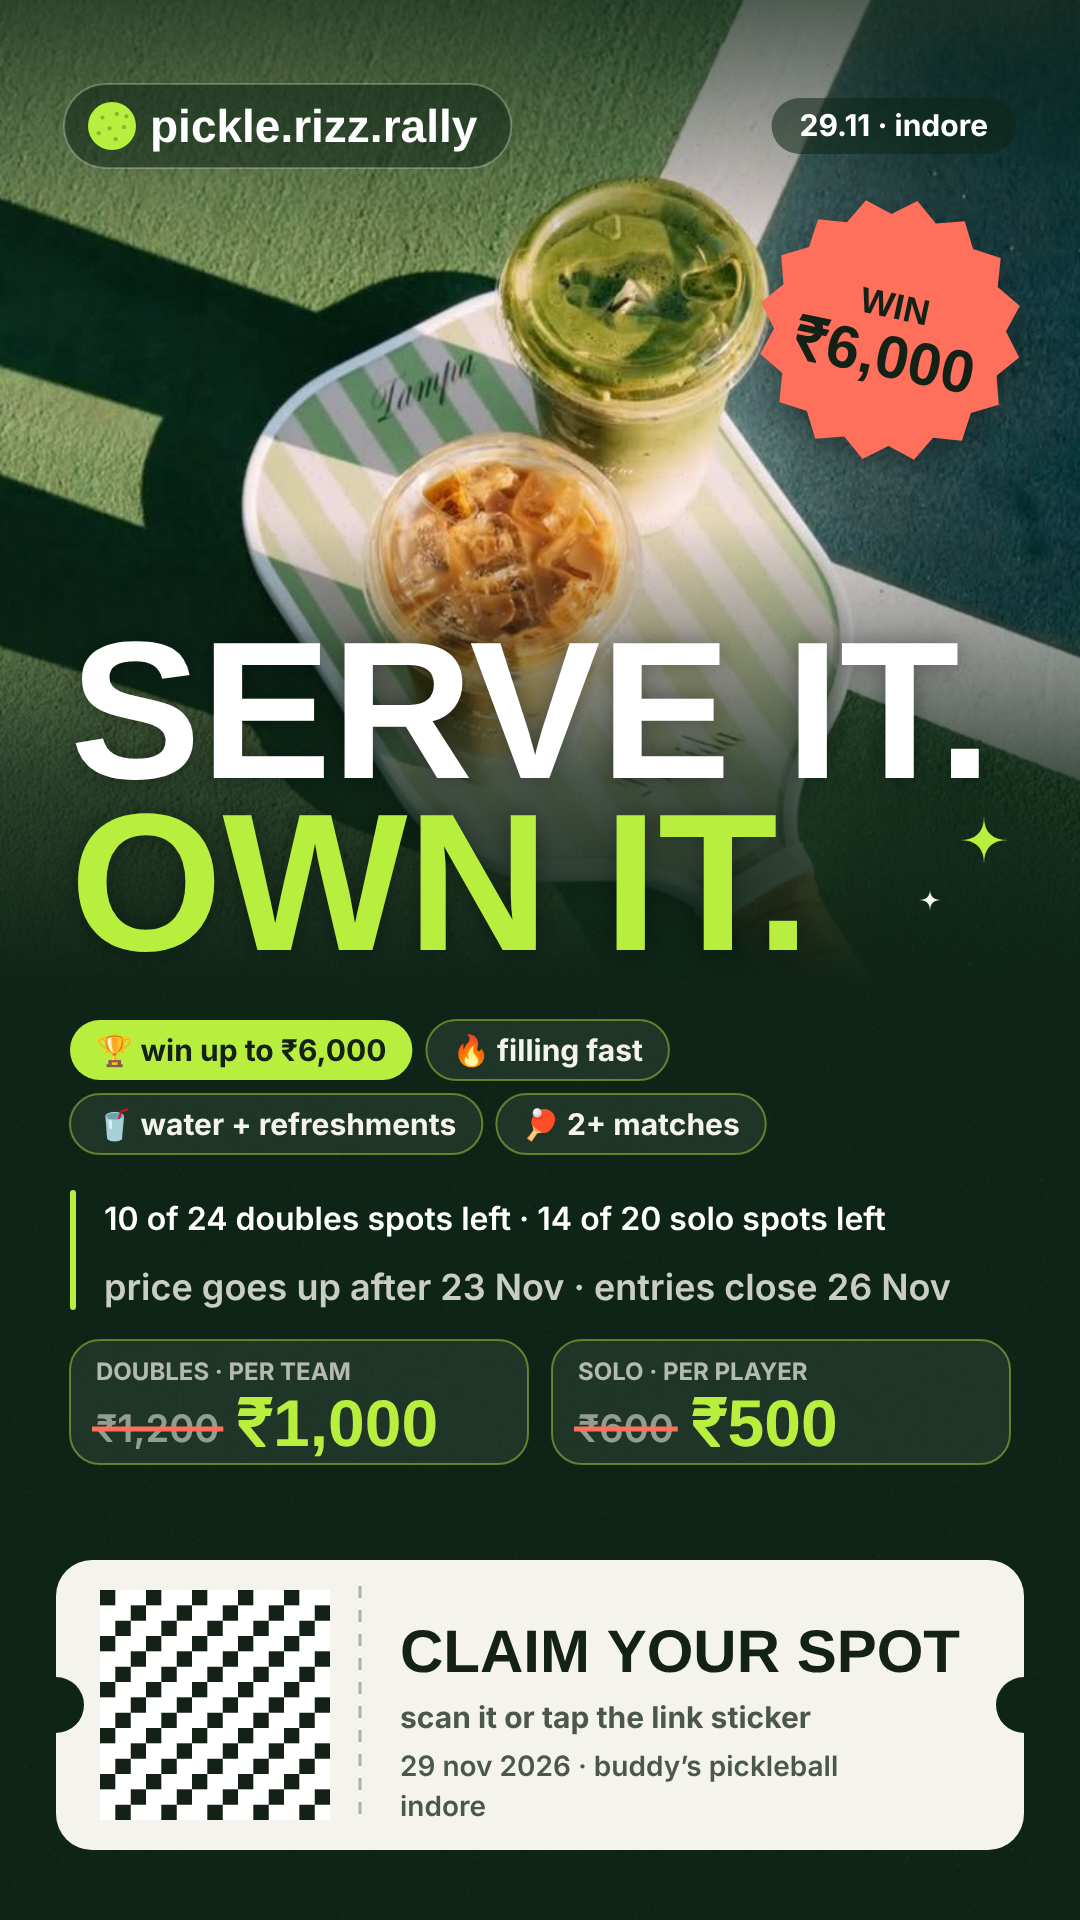
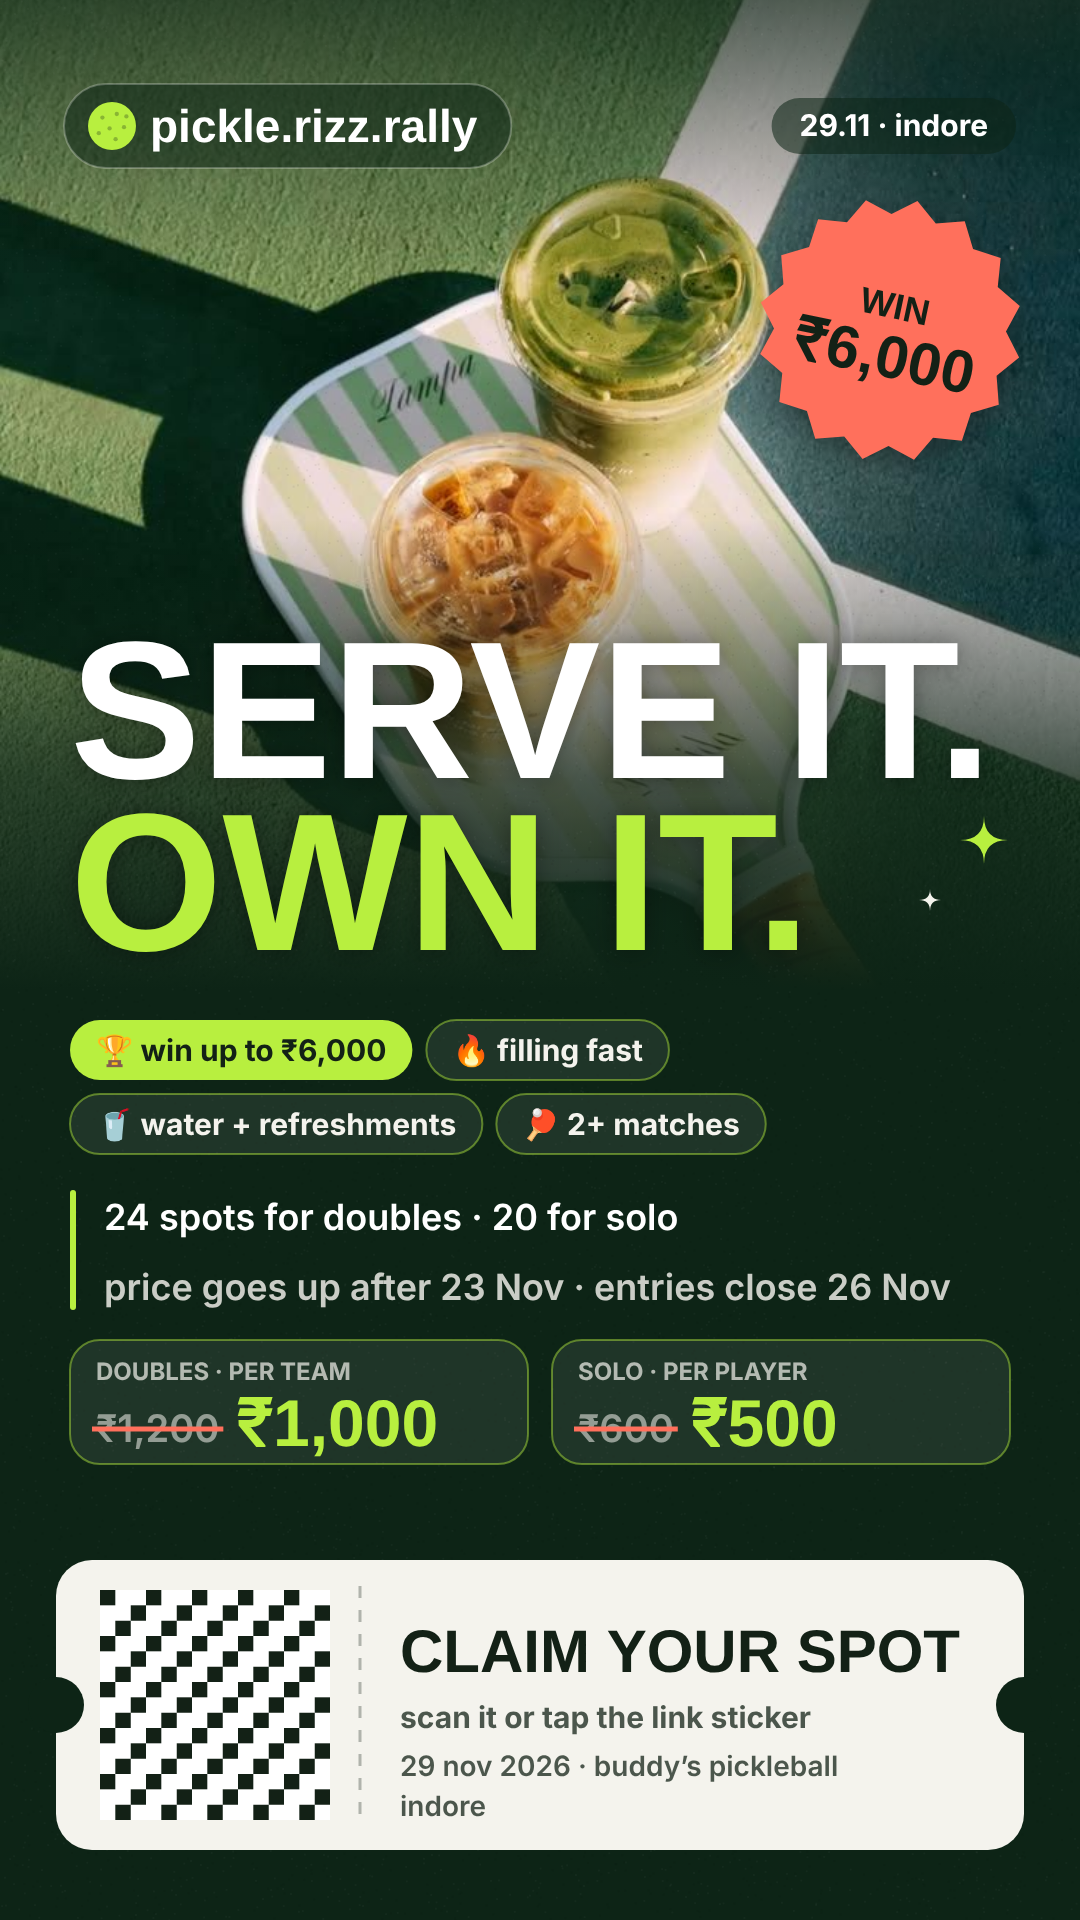
Add files via upload

Changed region(s): [[0.0917, 0.625, 0.825, 0.6562]]

diff --git a/src/pages/Home.tsx b/src/pages/Home.tsx
@@ -49,7 +49,7 @@ export default function Home() {
     sticker: ["win", rupees(TOP_PRIZE)],
     chips: [`🏆 win up to ${rupees(TOP_PRIZE)}`, "🔥 filling fast", "🥤 water + refreshments", "🏓 2+ matches", "🧍 solo entry", "✨ all levels"],
     prices: posterPrices(),
-    lines: [`${spotsText(state, "doubles")} · ${spotsText(state, "solo")}`, priceNote()],
+    lines: [`${state.settings.capDoubles} spots for doubles · ${state.settings.capSolo} for solo`, priceNote()],
     footer: regOpen ? "Claim your spot" : "Follow live",
     url: regOpen ? `${siteUrl()}#/register` : `${siteUrl()}#/live`,
   };
@@ -184,7 +184,7 @@ export default function Home() {
         <section id="prizes" aria-labelledby="prizes-title">
           <div className="grid w-full overflow-hidden bg-[#16291f] text-[#f4f3ed] lg:grid-cols-[.9fr_1.1fr]">
             {/* left: photo with the headline */}
-            <div className="relative flex min-h-[560px] flex-col justify-between overflow-hidden p-7 md:p-10 lg:min-h-[760px] lg:p-12">
+            <div className="relative flex min-h-[340px] flex-col justify-between overflow-hidden p-6 md:p-8 lg:min-h-0 lg:p-10">
               <img
                 src="https://images.unsplash.com/photo-1756477558468-b3e485757470?crop=entropy&cs=tinysrgb&fit=crop&fm=jpg&q=85&w=1200"
                 alt="Player lunging for a shot on a pickleball court"
@@ -202,10 +202,10 @@ export default function Home() {
               </div>
               <div className="relative">
                 <p className="font-mono text-xs uppercase tracking-[.22em] text-[#b8ef3f]">What’s on the line</p>
-                <h2 id="prizes-title" className="mt-4 font-sans text-[clamp(3.2rem,6.5vw,6.2rem)] font-semibold uppercase leading-[.86] tracking-[-.06em]">
+                <h2 id="prizes-title" className="mt-3 font-sans text-[clamp(2.8rem,5vw,4.8rem)] font-semibold uppercase leading-[.86] tracking-[-.06em]">
                   Play for<br />{rupees(TOP_PRIZE)}.
                 </h2>
-                <div className="mt-8 flex items-center justify-between gap-4 border-t border-white/20 pt-5 font-mono text-xs uppercase tracking-[.18em]">
+                <div className="mt-6 flex items-center justify-between gap-4 border-t border-white/20 pt-4 font-mono text-xs uppercase tracking-[.18em]">
                   <span>{EVENT.dateLabel.replace(" 2026", "")}</span>
                   <span className="text-right">{EVENT.venue}</span>
                 </div>
@@ -213,30 +213,31 @@ export default function Home() {
             </div>
 
             {/* right: the prize list */}
-            <div className="flex min-w-0 flex-col p-7 md:p-10 lg:p-14">
+            <div className="flex min-w-0 flex-col p-6 md:p-8 lg:p-10">
               <div className="flex flex-wrap items-start justify-between gap-4">
-                <p className="max-w-sm text-lg leading-relaxed text-white/60">A prize purse for the players who leave nothing on court.</p>
+                <p className="max-w-sm leading-relaxed text-white/60">A prize purse for the players who leave nothing on court.</p>
                 <span className="flex items-center gap-2 font-mono text-[11px] uppercase tracking-[.2em] text-[#b8ef3f]">
                   <span className={`h-2 w-2 rounded-full ${regOpen ? "bg-[#b8ef3f]" : "bg-white/40"}`} />
                   {regOpen ? "Entries open" : "Entries closed"}
                 </span>
               </div>
 
+              <div className="mt-8 grid gap-8 xl:grid-cols-2 xl:gap-10">
               {([["Doubles", "Per team", PRIZES.doubles], ["Solo", "Per player", PRIZES.solo]] as const).map(([title, unit, list]) => (
-                <div key={title} className="mt-12">
-                  <div className="flex items-baseline justify-between gap-4 border-b border-white/15 pb-4 font-mono text-xs uppercase tracking-[.22em]">
-                    <h3 className="font-sans text-4xl font-semibold normal-case tracking-[-.04em] text-[#b8ef3f] sm:text-5xl">{title}</h3>
+                <div key={title}>
+                  <div className="flex items-baseline justify-between gap-4 border-b border-white/15 pb-3 font-mono text-xs uppercase tracking-[.22em]">
+                    <h3 className="font-sans text-3xl font-semibold normal-case tracking-[-.04em] text-[#b8ef3f] sm:text-4xl">{title}</h3>
                     <span className="normal-case tracking-normal text-white/45">{unit}</span>
                   </div>
                   <ul>
                     {list.map((p, i) => (
-                      <li key={p.place} className="grid grid-cols-[2rem_minmax(0,1fr)_auto] items-center gap-3 border-b border-white/15 py-5 sm:grid-cols-[3rem_minmax(0,1fr)_auto] sm:py-7">
+                      <li key={p.place} className="grid grid-cols-[2rem_minmax(0,1fr)_auto] items-center gap-3 border-b border-white/15 py-3 sm:grid-cols-[2.25rem_minmax(0,1fr)_auto] sm:py-3.5">
                         <span className="font-mono text-sm text-white/35">0{i + 1}</span>
                         <span className="min-w-0">
-                          <span className="text-lg font-semibold sm:text-2xl">{p.place}</span>
-                          {p.trophy && <span className="mt-0.5 block text-sm text-white/45 sm:ml-3 sm:mt-0 sm:inline">+ trophy</span>}
+                          <span className="text-lg font-semibold">{p.place}</span>
+                          {p.trophy && <span className="block text-xs text-white/45">+ trophy</span>}
                         </span>
-                        <span className={`font-sans font-semibold tabular-nums tracking-[-.05em] ${i === 0 ? "text-4xl text-[#b8ef3f] sm:text-6xl" : "text-3xl sm:text-5xl"}`}>
+                        <span className={`font-sans font-semibold tabular-nums tracking-[-.05em] ${i === 0 ? "text-3xl text-[#b8ef3f] sm:text-4xl" : "text-2xl sm:text-3xl"}`}>
                           {rupees(p.cash)}
                         </span>
                       </li>
@@ -244,18 +245,19 @@ export default function Home() {
                   </ul>
                 </div>
               ))}
+              </div>
 
-              <p className="mt-14 font-mono text-xs uppercase tracking-[.22em] text-white/60">On the day, for every player</p>
-              <ul className="mt-6 grid gap-x-8 gap-y-4 sm:grid-cols-2">
+              <p className="mt-8 font-mono text-xs uppercase tracking-[.22em] text-white/60">On the day, for every player</p>
+              <ul className="mt-4 grid gap-x-6 gap-y-2.5 text-sm sm:grid-cols-2">
                 {PERKS.map(([, text]) => (
                   <li key={text} className="flex items-center gap-3 text-white/80">
-                    <span className="grid h-7 w-7 shrink-0 place-items-center rounded-full bg-[#b8ef3f] text-[#132116]"><Icon name="check" size={15} /></span>
+                    <span className="grid h-5 w-5 shrink-0 place-items-center rounded-full bg-[#b8ef3f] text-[#132116]"><Icon name="check" size={12} /></span>
                     {text.charAt(0).toUpperCase() + text.slice(1)}
                   </li>
                 ))}
               </ul>
 
-              <div className="mt-10 flex flex-wrap items-center justify-between gap-3 border-t border-white/15 pt-6 font-mono text-[11px] uppercase tracking-[.2em] text-white/40 lg:mt-auto">
+              <div className="mt-8 flex flex-wrap items-center justify-between gap-3 border-t border-white/15 pt-5 font-mono text-[11px] uppercase tracking-[.2em] text-white/40">
                 <span>{EVENT.brand}</span>
                 <span>Registration closes {EVENT.registrationCloses}</span>
               </div>

diff --git a/src/pages/Admin.tsx b/src/pages/Admin.tsx
@@ -464,13 +464,13 @@ function Stories() {
       sticker: ["win", rupees(TOP_PRIZE)],
       chips: [`🏆 win up to ${rupees(TOP_PRIZE)}`, "🔥 filling fast", "🥤 water + refreshments", "🏓 2+ matches", "🧍 solo entry", "✨ all levels"],
       prices: posterPrices(),
-      lines: [`${spotsText(state, "doubles")} · ${spotsText(state, "solo")}`, priceNote()],
+      lines: [`${state.settings.capDoubles} spots for doubles · ${state.settings.capSolo} for solo`, priceNote()],
       footer: "Claim your spot", url: `${base}#/register` }],
     ["Last few spots", "Push before the deadline", {
       kicker: "filling fast", title: ["Last few", "spots fr"], highlight: 1, sticker: isEarlyBird() ? ["early bird", rupees(FEE.early)] : ["don’t", "sleep"],
       chips: [`🏆 ${rupees(TOP_PRIZE)} top prize`, "🥤 water + refreshments", "🏓 2+ matches"],
       prices: posterPrices(),
-      lines: [`${spotsText(state, "doubles")} · ${spotsText(state, "solo")}`, priceNote()], footer: "Grab your spot", url: `${base}#/register` }],
+      lines: [`${state.settings.capDoubles} spots for doubles · ${state.settings.capSolo} for solo`, priceNote()], footer: "Grab your spot", url: `${base}#/register` }],
     ["Schedule is out", "After you generate pools", {
       kicker: "pools are drawn", title: ["Schedule", "dropped"], highlight: 1, sticker: ["find", "your court"],
       lines: [`First serve ${fmtTime(startMin(state))}`, `${state.teams.length} teams, ${state.settings.courts} courts`, "Find your team and your court"],
